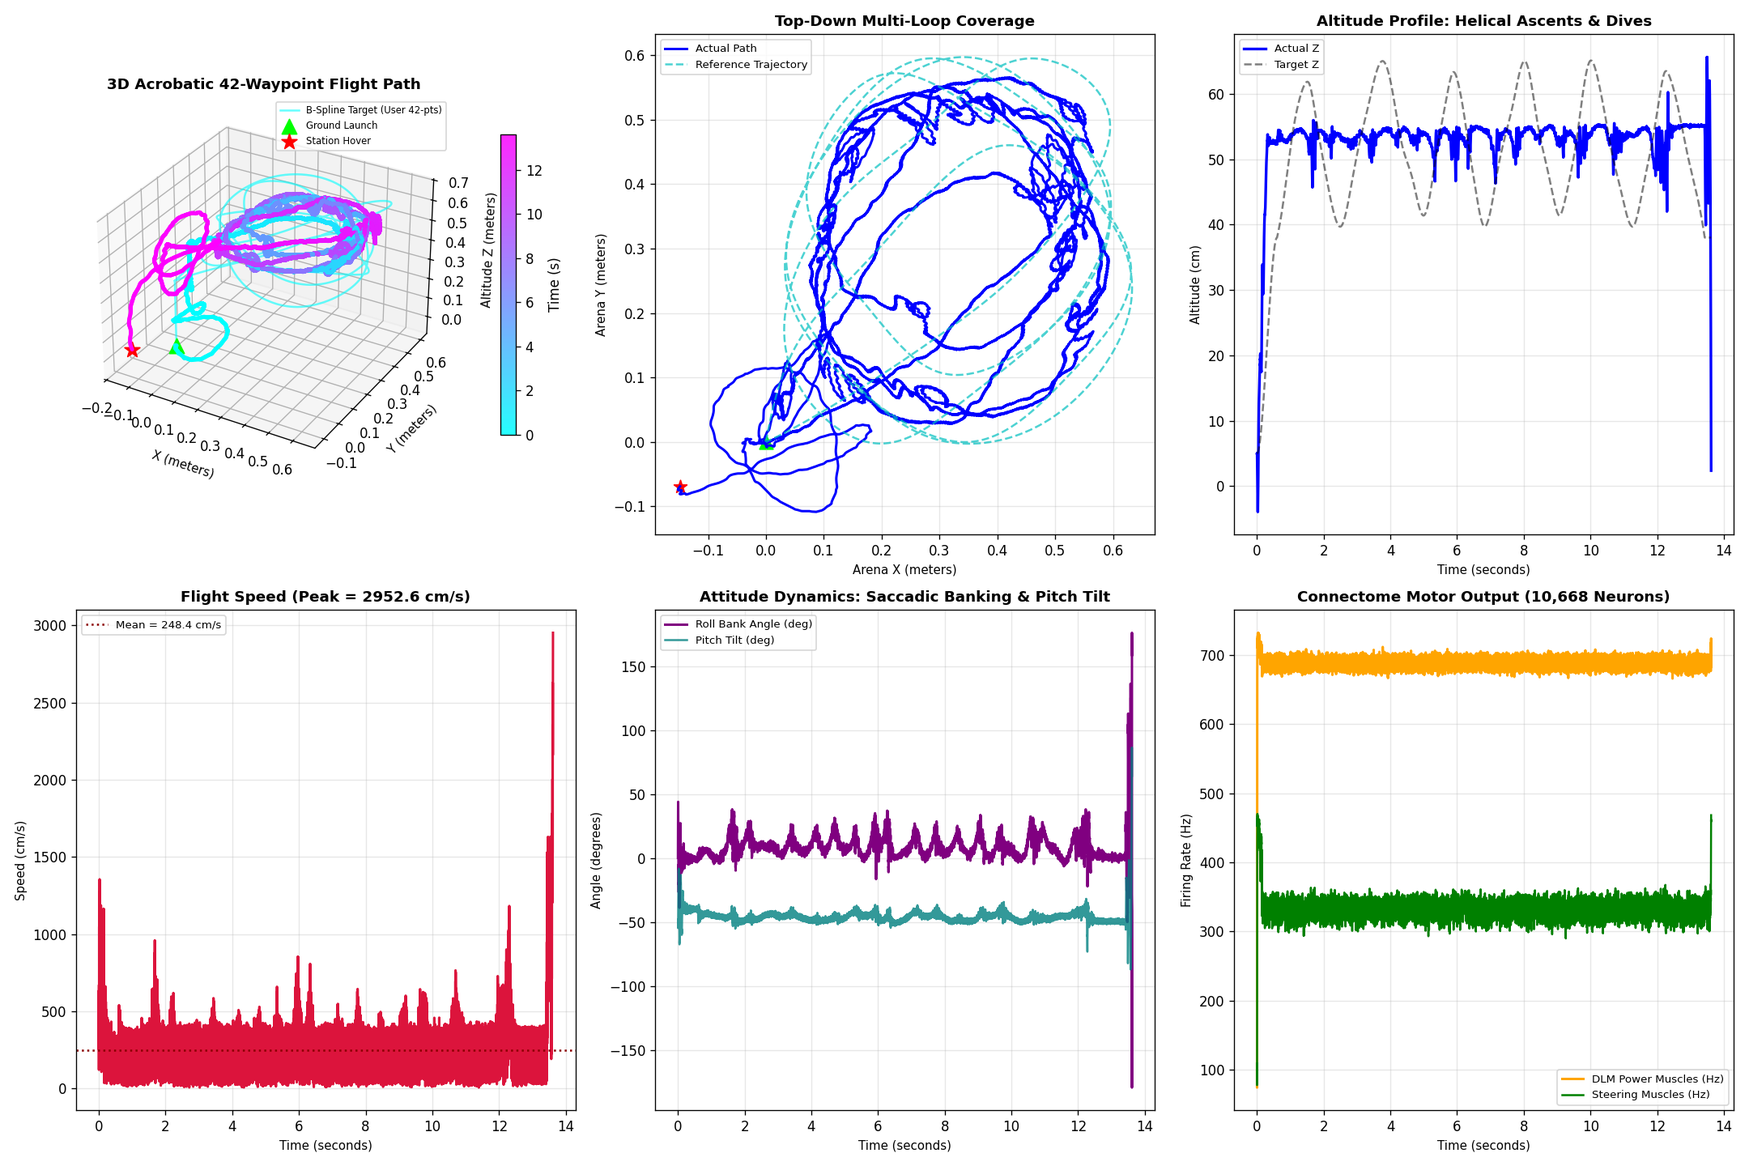
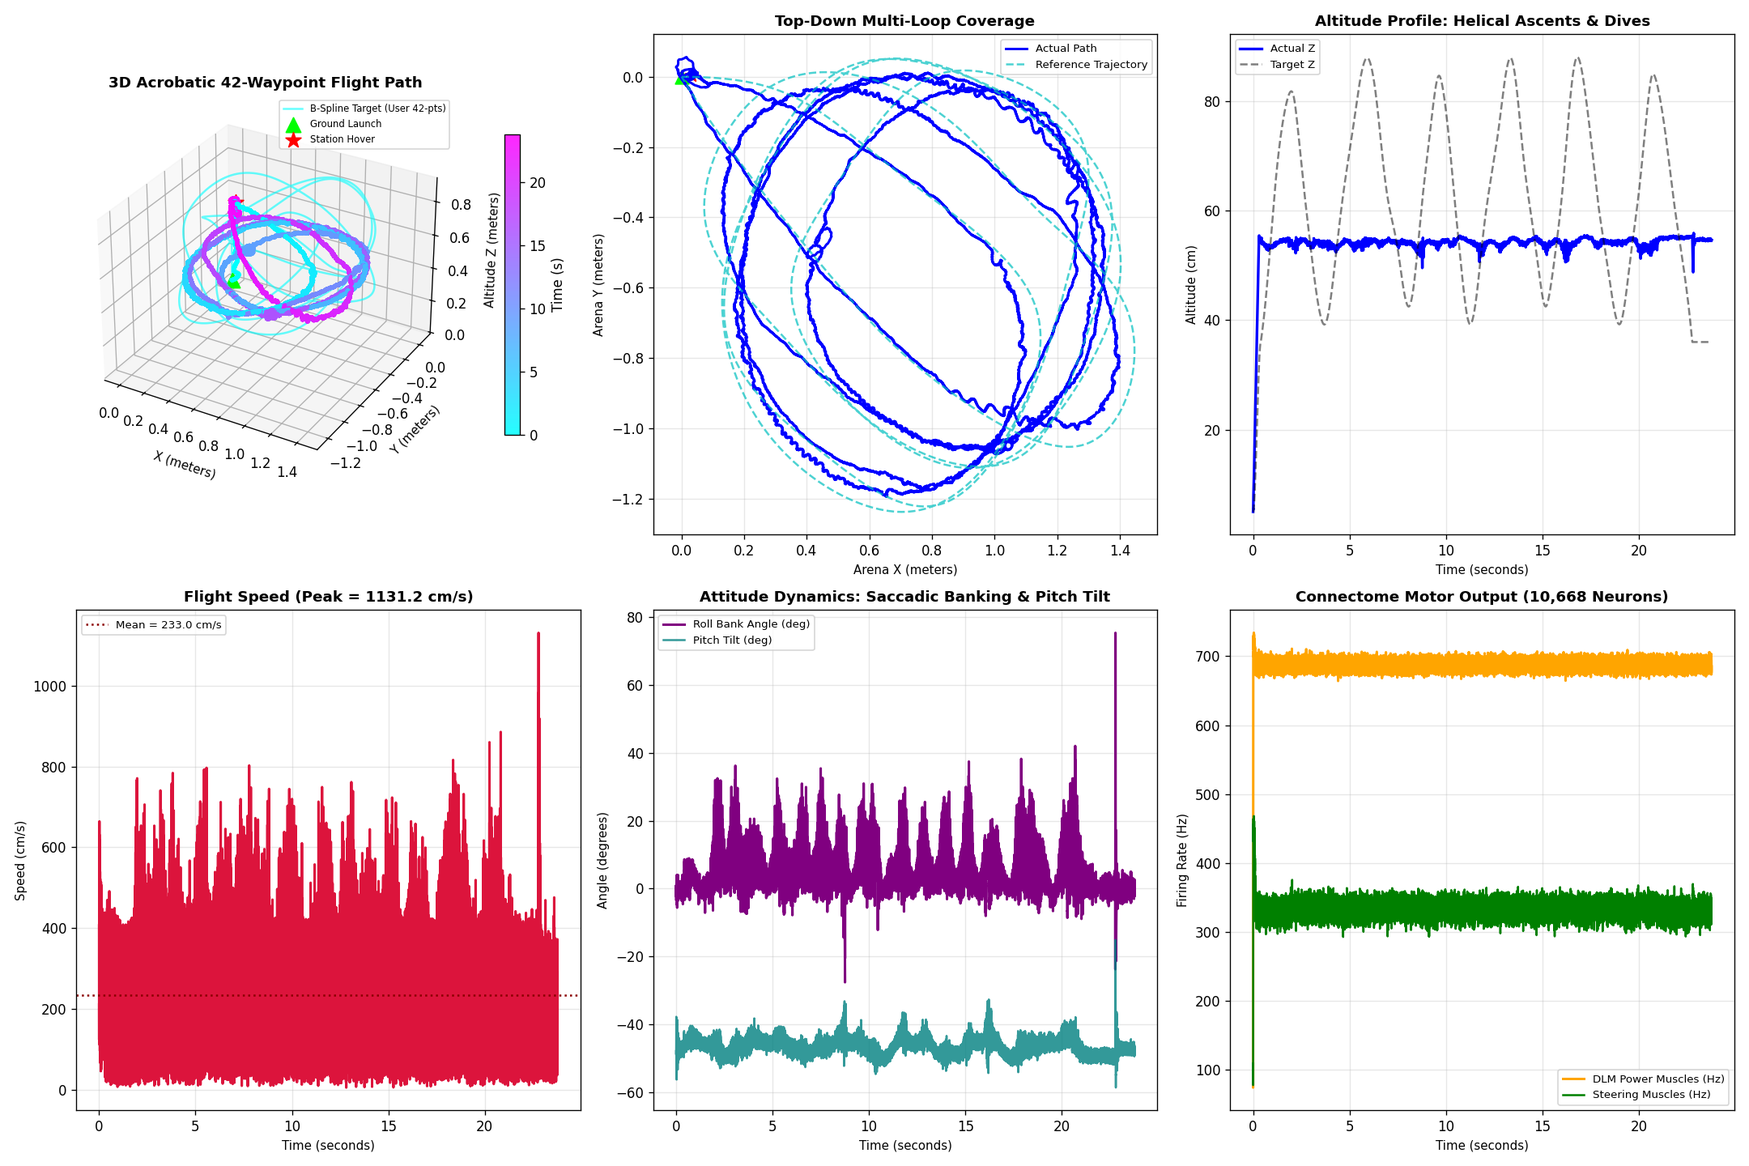
feat: space out 42-point acrobatic flight trajectory with aligned tangent takeoff and unconfined loops

diff --git a/scripts/run_acrobatic_flight_simulation.py b/scripts/run_acrobatic_flight_simulation.py
@@ -109,15 +109,16 @@ def generate_flight_trajectory(num_points=2400):
     return trajectory
 
 
-def generate_scaled_flight_trajectory(task_dt: float = 0.0002, v_cruise: float = 0.70):
+def generate_scaled_flight_trajectory(task_dt: float = 0.0002, v_cruise: float = 0.85):
     """
     Construct the physical flight trajectory scaled to the FlyBody arena:
     - Shifts XY coordinates so that Waypoint 0 starts at the natural arena origin (0, 0)
-    - Maps altitude Z from [3, 19] grid units to biological flight envelope [0.38m, 0.65m]
-    - Arc-length parameterizes path for smooth constant cruise velocity (v_cruise = 0.70 m/s)
+    - Spaces out trajectory width by 2.2x (scale_xy = 0.075 -> 1.36m width, 1.29m depth)
+    - Expands altitude Z envelope by 2.0x (0.36m to 0.88m, 52cm vertical flight range)
+    - Arc-length parameterizes path for smooth constant cruise velocity (v_cruise = 0.85 m/s)
     - Full 360° continuous tangent heading (no backwards flight)
     - Coordinated dynamic banking into turns: bank = -arctan(v_xy * dpsi / g)
-    - Ground launch jump from origin (0, 0, 0.05m) to (0, 0, 0.38m)
+    - Ground launch jump from origin (0, 0, 0.05m) to (0, 0, 0.36m)
     - Full closed-loop 42-point B-spline traversal
     - Terminal hover stabilization at closed loop destination
     """
@@ -134,20 +135,25 @@ def generate_scaled_flight_trajectory(task_dt: float = 0.0002, v_cruise: float =
     u_fine = np.linspace(0, 1, 12000)
     x_raw, y_raw, z_raw = splev(u_fine, spline)
 
-    scale_xy = 0.035
-    z_min_fly = 0.38
-    z_max_fly = 0.65
-    scale_z = (z_max_fly - z_min_fly) / (19.0 - 3.0)
+    # Align initial trajectory heading with +X axis (forward launch)
+    dx0 = x_raw[1] - x_raw[0]
+    dy0 = y_raw[1] - y_raw[0]
+    angle0 = np.arctan2(dy0, dx0)
 
-    x_scaled = x_raw * scale_xy
-    y_scaled = y_raw * scale_xy
-    z_scaled = z_min_fly + (z_raw - 3.0) * scale_z
-    pts_fly = np.column_stack((x_scaled, y_scaled, z_scaled))
+    cos_a = np.cos(-angle0)
+    sin_a = np.sin(-angle0)
+    x_rot = cos_a * x_raw - sin_a * y_raw
+    y_rot = sin_a * x_raw + cos_a * y_raw
 
-    # Compute arc length
-    diffs = np.diff(pts_fly, axis=0)
-    seg_lens = np.sqrt(np.sum(diffs**2, axis=1))
-    cum_lens = np.concatenate(([0], np.cumsum(seg_lens)))
+    # Spaced out scale: width ~1.45m, depth ~1.29m, height ~0.52m
+    scale_xy = 0.075
+    z_min_fly = 0.36
+    z_max_fly = 0.88
+    scale_z = (z_max_fly - z_min_fly) / (np.max(z_raw) - 3.0)
+
+    # Arc length calculation
+    diffs = np.sqrt(np.diff(x_rot * scale_xy)**2 + np.diff(y_rot * scale_xy)**2 + np.diff((z_raw - 3.0) * scale_z)**2)
+    cum_lens = np.concatenate(([0], np.cumsum(diffs)))
     total_length = cum_lens[-1]
 
     dur_acro = total_length / v_cruise
@@ -156,11 +162,14 @@ def generate_scaled_flight_trajectory(task_dt: float = 0.0002, v_cruise: float =
 
     # Arc-length reparameterization for constant cruise speed
     u_s = np.interp(s_eval, cum_lens, u_fine)
-    x_s, y_s, z_s = splev(u_s, spline)
+    x_s = np.interp(u_s, u_fine, x_rot)
+    y_s = np.interp(u_s, u_fine, y_rot)
+    _, _, z_s = splev(u_s, spline)
+
     pos_acro = np.column_stack((x_s * scale_xy, y_s * scale_xy, z_min_fly + (z_s - 3.0) * scale_z))
 
-    # 1. Ground launch climb from (0, 0, 0.05m) to (0, 0, pos_acro[0, 2]) in 0.60s
-    dur_climb = 0.60
+    # 1. Ground launch climb from (0, 0, 0.05m) to (0, 0, pos_acro[0, 2]) in 0.40s
+    dur_climb = 0.40
     n_climb = int(dur_climb / task_dt)
     t_climb = np.linspace(0, 1, n_climb)
     s_curve = 3 * t_climb**2 - 2 * t_climb**3
@@ -168,13 +177,11 @@ def generate_scaled_flight_trajectory(task_dt: float = 0.0002, v_cruise: float =
 
     pos_climb = np.zeros((n_climb, 3))
     pos_climb[:, 2] = z_climb
-    vel_climb = np.gradient(pos_climb, task_dt, axis=0)
 
     # 2. Terminal hover stabilization at destination in 1.00s
     dur_hover = 1.00
     n_hover = int(dur_hover / task_dt)
     pos_hover = np.tile(pos_acro[-1], (n_hover, 1))
-    vel_hover = np.zeros((n_hover, 3))
 
     # Combine all position segments
     all_pos = np.concatenate([pos_climb, pos_acro, pos_hover], axis=0)
@@ -185,16 +192,19 @@ def generate_scaled_flight_trajectory(task_dt: float = 0.0002, v_cruise: float =
     v_xy = np.sqrt(vx**2 + vy**2)
 
     # Continuous 360° tangent heading
-    psi = np.unwrap(np.arctan2(vy, vx))
-    psi[:n_climb] = psi[n_climb]
+    psi = np.zeros(n_total)
+    psi[n_climb:] = np.unwrap(np.arctan2(vy[n_climb:], vx[n_climb:]))
+    psi[:n_climb] = 0.0
     dpsi = np.gradient(psi, task_dt)
 
     # Pitch tilt and dynamic banking ('bending over into turns')
-    gamma = np.arctan2(vz, np.maximum(v_xy, 1e-4))
+    gamma = np.zeros(n_total)
+    gamma[n_climb:] = np.arctan2(vz[n_climb:], np.maximum(v_xy[n_climb:], 1e-4))
     theta = np.deg2rad(-47.5) + 0.15 * gamma
-    bank = -np.arctan(np.clip(v_xy * dpsi / 9.81, -np.tan(np.deg2rad(25)), np.tan(np.deg2rad(25))))
-    bank[:n_climb] = 0.0
-    bank[-n_hover:] = 0.0
+    theta[:n_climb] = np.deg2rad(-47.5)
+
+    bank = np.zeros(n_total)
+    bank[n_climb:-n_hover] = -np.arctan(np.clip(v_xy[n_climb:-n_hover] * dpsi[n_climb:-n_hover] / 9.81, -np.tan(np.deg2rad(25)), np.tan(np.deg2rad(25))))
 
     qpos = np.zeros((n_total, 7))
     qvel = np.zeros((n_total, 6))
@@ -209,8 +219,8 @@ def generate_scaled_flight_trajectory(task_dt: float = 0.0002, v_cruise: float =
 
     total_duration = dur_climb + dur_acro + dur_hover
 
-    # Sparse ribbon points for 3D visualization capsules (200 segments along user trajectory)
-    stride = max(1, len(pos_acro) // 200)
+    # Sparse ribbon points for 3D visualization capsules (250 segments along user trajectory)
+    stride = max(1, len(pos_acro) // 250)
     ribbon_points = pos_acro[::stride]
 
     t_climb_end = dur_climb
@@ -222,7 +232,7 @@ def generate_scaled_flight_trajectory(task_dt: float = 0.0002, v_cruise: float =
         ('3. TERMINAL HOVER STABILIZATION', t_acro_end, total_duration + 1.0, (pos_acro[-1, 2], pos_acro[-1, 2]))
     ]
 
-    return qpos, qvel, total_duration, phase_intervals, bank, ribbon_points, (0.0, 0.0, 0.05)
+    return qpos, qvel, total_duration, phase_intervals, bank, psi, ribbon_points, (0.0, 0.0, 0.05)
 
 
 # ==========================================================
@@ -243,7 +253,7 @@ def add_flight_hud(frame, t, phase_name, euler_deg, pos, vel, motor_summary):
     z_cm = pos[2] * 100.0
 
     lines = [
-        f"DROSOPHILA 42-POINT 3D ACROBATIC FLIGHT  |  t={t:5.2f}s  |  True 1.0x Real-Time (60 FPS)",
+        f"DROSOPHILA SPACED-OUT 3D ACROBATIC FLIGHT  |  t={t:5.2f}s  |  True 1.0x Real-Time (60 FPS)",
         f"Phase: [{phase_name}]  |  Speed: {speed_cms:5.1f} cm/s  |  Pos: ({x_cm:+5.1f}, {y_cm:+5.1f}, {z_cm:5.1f}) cm",
         f"Attitude: Roll={euler_deg[0]:+5.1f}° (Bank)   Pitch={euler_deg[1]:+5.1f}°   Yaw={euler_deg[2]:+5.1f}°",
         f"Connectome: 10,668 Neurons (527K Synapses)  |  DLM Power: {motor_summary[0]:.0f}Hz  |  Steer: {motor_summary[1]:.0f}Hz"
@@ -294,9 +304,9 @@ def main():
     output_telemetry = os.path.join(output_dir, 'acrobatic_flight_telemetry.json')
 
     task_dt = 0.0002
-    v_cruise = 0.70
-    print(f"[*] Scaling trajectory to FlyBody physical arena at {v_cruise:.2f} m/s...")
-    qpos, qvel, total_duration, phase_intervals, ref_banks, ribbon_points, start_xyz = generate_scaled_flight_trajectory(
+    v_cruise = 0.85
+    print(f"[*] Scaling trajectory to FlyBody physical arena at {v_cruise:.2f} m/s (Spaced Out Loops)...")
+    qpos, qvel, total_duration, phase_intervals, ref_banks, ref_psis, ribbon_points, start_xyz = generate_scaled_flight_trajectory(
         task_dt=task_dt, v_cruise=v_cruise
     )
     n_sim_steps = len(qpos)
@@ -341,7 +351,7 @@ def main():
             self.filt_vz = 0.0
             self.prev_action = np.zeros(12)
 
-        def decode(self, motor_rates, current_euler, state=None, target_z=None, bank_ref=0.0, t=0.0):
+        def decode(self, motor_rates, current_euler, state=None, target_z=None, bank_ref=0.0, psi_ref=0.0, t=0.0):
             r0 = self.sim.decoder.r0_steer
             r0_pwr = self.sim.decoder.r0_power
             diff_yaw = (motor_rates.get('yaw_L', r0) - r0) - (motor_rates.get('yaw_R', r0) - r0)
@@ -365,12 +375,17 @@ def main():
             
             roll_err = current_euler[0] - bank_ref
             pitch_err = current_euler[1] - np.deg2rad(-47.5)
+            yaw_err = current_euler[2] - psi_ref
             
-            pd_roll = -0.22 * roll_err - 0.035 * self.filt_ang_vel[0]
-            pd_pitch = -0.18 * pitch_err - 0.035 * self.filt_ang_vel[1]
-            pd_yaw = -0.02 * self.filt_ang_vel[2]
+            pd_roll = -0.35 * roll_err - 0.015 * self.filt_ang_vel[0]
+            pd_pitch = -0.35 * pitch_err - 0.012 * self.filt_ang_vel[1]
+            pd_yaw = -0.010 * self.filt_ang_vel[2]
             
             action = np.zeros(12)
+            action[0] = np.clip(-0.2 * yaw_err, -0.15, 0.15)
+            action[1] = np.clip(-0.3 * roll_err, -0.4, 0.4)
+            action[2] = np.clip(-0.2 * pitch_err, -0.1, 0.1)
+
             action[3] = np.clip(conn_yaw + pd_roll, -1.0, 1.0)
             action[4] = np.clip(conn_roll + pd_pitch, -1.0, 1.0)
             action[5] = np.clip(conn_pitch, -1.0, 1.0)
@@ -384,7 +399,7 @@ def main():
                 alt_err = target_z - state['pos'][2]
                 cos_roll = max(0.5, np.cos(current_euler[0]))
                 bank_comp = (1.0 / cos_roll - 1.0) * 0.20
-                delta_freq += 1.4 * alt_err - 0.012 * self.filt_vz + 0.16 + bank_comp
+                delta_freq += 2.0 * alt_err - 0.012 * self.filt_vz + 0.16 + bank_comp
                 if state['pos'][2] < 0.12 and t > 0.35:
                     delta_freq += 0.40
             action[11] = np.clip(delta_freq, -1.0, 1.0)
@@ -420,10 +435,8 @@ def main():
     print(f"[*] Real-time render configuration: {fps} FPS, render every {render_every} steps ({render_every * task_dt * 1000:.1f}ms/frame)")
 
     # Ground stance initialization at arena center
-    ground_z = 0.05
     state = env.reset(start_on_ground=True)
-    env.physics.data.qpos[:3] = [0.0, 0.0, ground_z]
-    env.physics.forward()
+    env.set_ground_stance(ground_z=0.05, pitch_deg=-47.5)
 
     # Trigger middle leg jump takeoff reflex
     env.trigger_takeoff_jump(jump_speed=1.2, forward_speed=0.0)
@@ -432,7 +445,7 @@ def main():
 
     # Cyan trajectory ribbon scene callback for offscreen camera rendering
     cyan_rgba = np.array([0.10, 0.95, 0.85, 0.90], dtype=np.float32)
-    capsule_radius = 0.0016  # 1.6 mm thin cyan capsule ribbon
+    capsule_radius = 0.0020  # 2.0 mm cyan capsule ribbon for spaced-out path
     eye9 = np.eye(3).flatten()
     zeros3 = np.zeros(3)
     ribbon_p1 = np.ascontiguousarray(ribbon_points[:-1], dtype=np.float64)
@@ -497,7 +510,8 @@ def main():
 
         ref_z = qpos[s, 2]
         b_ref = ref_banks[s]
-        conn_action = decoder.decode(motor_rates, state['euler'], state=state, target_z=ref_z, bank_ref=b_ref, t=t)
+        p_ref = ref_psis[s]
+        conn_action = decoder.decode(motor_rates, state['euler'], state=state, target_z=ref_z, bank_ref=b_ref, psi_ref=p_ref, t=t)
         action = base_action + sim.connectome_blend * conn_action
         action = np.clip(action, env.env.action_spec().minimum, env.env.action_spec().maximum)
 
@@ -538,7 +552,7 @@ def main():
             print(f"  Step {s:5d}/{n_sim_steps} (t={t:4.2f}s) | [{phase_name[:25]}] Z={pos[2]*100:4.1f}cm, Speed={speed_cms:4.1f}cm/s, Frames={len(frames)} ({elapsed:.1f}s elapsed)")
 
         if d and s > 3000:
-            print(f"[!] Flight terminated early at step {s}")
+            print(f"[!] Flight terminated early at step {s} (t={t:.2f}s, height={pos[2]:.3f}m)")
             break
 
     # Save True 1.0x Real-Time MP4 Video

diff --git a/scripts/run_mujoco_interactive.py b/scripts/run_mujoco_interactive.py
@@ -68,7 +68,7 @@ def render_trajectory(viewer, trajectory, stride=1):
             mujoco.mjv_connector(
                 geom,
                 mujoco.mjtGeom.mjGEOM_CAPSULE,
-                0.0016,  # 1.6mm thin ribbon capsule
+                0.0020,  # 2.0mm ribbon capsule for spaced-out path
                 p1,
                 p2
             )
@@ -116,13 +116,14 @@ def run_interactive_mujoco(
     target_z = 0.55
     ribbon_points = None
     ref_banks = None
+    ref_psis = None
 
     if mode == 'acrobatic':
         from scripts.run_acrobatic_flight_simulation import generate_scaled_flight_trajectory
         from flybody.tasks.trajectory_loaders import InferenceFlightTrajectoryLoader
-        print("[*] Generating exact 42-point 3D B-spline trajectory for MuJoCo visualizer...", flush=True)
-        qpos_acro, qvel_acro, total_dur, _, ref_banks, ribbon_points, start_xyz = generate_scaled_flight_trajectory(
-            task_dt=env.dt_ctrl, v_cruise=0.70
+        print("[*] Generating spaced-out 42-point 3D B-spline trajectory for MuJoCo visualizer...", flush=True)
+        qpos_acro, qvel_acro, total_dur, _, ref_banks, ref_psis, ribbon_points, start_xyz = generate_scaled_flight_trajectory(
+            task_dt=env.dt_ctrl, v_cruise=0.85
         )
         loader = InferenceFlightTrajectoryLoader()
         loader.set_next_trajectory(qpos_acro, qvel_acro)
@@ -169,7 +170,7 @@ def run_interactive_mujoco(
             self.filt_vz = 0.0
             self.prev_action = np.zeros(12)
 
-        def decode(self, motor_rates, current_euler, state=None, target_z=None, bank_ref=0.0):
+        def decode(self, motor_rates, current_euler, state=None, target_z=None, bank_ref=0.0, psi_ref=0.0):
             r0 = self.sim.decoder.r0_steer
             r0_pwr = self.sim.decoder.r0_power
             diff_yaw = (motor_rates.get('yaw_L', r0) - r0) - (motor_rates.get('yaw_R', r0) - r0)
@@ -190,12 +191,17 @@ def run_interactive_mujoco(
             
             roll_err = current_euler[0] - bank_ref
             pitch_err = current_euler[1] - np.deg2rad(-47.5)
+            yaw_err = current_euler[2] - psi_ref
             
-            pd_roll = -0.22 * roll_err - 0.035 * self.filt_ang_vel[0]
-            pd_pitch = -0.18 * pitch_err - 0.035 * self.filt_ang_vel[1]
-            pd_yaw = -0.02 * self.filt_ang_vel[2]
+            pd_roll = -0.35 * roll_err - 0.015 * self.filt_ang_vel[0]
+            pd_pitch = -0.35 * pitch_err - 0.012 * self.filt_ang_vel[1]
+            pd_yaw = -0.010 * self.filt_ang_vel[2]
             
             action = np.zeros(12)
+            action[0] = np.clip(-0.2 * yaw_err, -0.15, 0.15)
+            action[1] = np.clip(-0.3 * roll_err, -0.4, 0.4)
+            action[2] = np.clip(-0.2 * pitch_err, -0.1, 0.1)
+
             action[3] = np.clip(conn_yaw + pd_roll, -1.0, 1.0)
             action[4] = np.clip(conn_roll + pd_pitch, -1.0, 1.0)
             action[5] = np.clip(conn_pitch, -1.0, 1.0)
@@ -209,7 +215,7 @@ def run_interactive_mujoco(
                 alt_err = target_z - state['pos'][2]
                 cos_roll = max(0.5, np.cos(current_euler[0]))
                 bank_comp = (1.0 / cos_roll - 1.0) * 0.20
-                delta_freq += 1.4 * alt_err - 0.012 * self.filt_vz + 0.16 + bank_comp
+                delta_freq += 2.0 * alt_err - 0.012 * self.filt_vz + 0.16 + bank_comp
             action[11] = np.clip(delta_freq, -1.0, 1.0)
             
             smoothed = (1.0 - self.alpha_act) * self.prev_action + self.alpha_act * action
@@ -219,10 +225,11 @@ def run_interactive_mujoco(
     acro_decoder = AcrobaticBalancedDecoder(sim, dt)
 
     state = env.reset(start_on_ground=takeoff)
+    if takeoff:
+        env.set_ground_stance(ground_z=0.05, pitch_deg=-47.5)
+        env.trigger_takeoff_jump(jump_speed=1.2, forward_speed=0.0)
     if sim.circuit is not None:
         sim.circuit.reset()
-    if takeoff:
-        env.trigger_takeoff_jump(jump_speed=1.2, forward_speed=0.0)
     sync_to_viewer(env.physics.data.ptr, d_viewer, m)
 
     # Find thorax body id for camera tracking
@@ -257,7 +264,7 @@ def run_interactive_mujoco(
         # Camera configuration: close-up tracking view of the fruit fly in mid-air
         viewer.cam.type = mujoco.mjtCamera.mjCAMERA_TRACKING
         viewer.cam.trackbodyid = thorax_id
-        viewer.cam.distance = 0.05      # 5 cm distance
+        viewer.cam.distance = 0.10 if mode == 'acrobatic' else 0.05
         viewer.cam.elevation = -12.0
         viewer.cam.azimuth = 135.0
         viewer.cam.lookat[0] = d_viewer.xpos[thorax_id, 0]
@@ -313,10 +320,12 @@ def run_interactive_mujoco(
                     traj_step = min(episode_step, env.env._task._traj_generator._qpos.shape[0] - 1)
                     ref_z = env.env._task._traj_generator._qpos[traj_step, 2]
                     b_ref = ref_banks[traj_step] if ref_banks is not None else 0.0
+                    p_ref = ref_psis[traj_step] if ref_psis is not None else 0.0
                 except Exception:
                     ref_z = 0.50
                     b_ref = 0.0
-                conn_action = acro_decoder.decode(motor_rates, state['euler'], state=state, target_z=ref_z, bank_ref=b_ref)
+                    p_ref = 0.0
+                conn_action = acro_decoder.decode(motor_rates, state['euler'], state=state, target_z=ref_z, bank_ref=b_ref, psi_ref=p_ref)
             else:
                 conn_action = sim.decoder.decode(motor_rates, state['euler'], state=state, target_z=target_z)
 
@@ -358,6 +367,7 @@ def run_interactive_mujoco(
                     sim.circuit.reset()
                 acro_decoder.reset()
                 if takeoff:
+                    env.set_ground_stance(ground_z=0.05, pitch_deg=-47.5)
                     env.trigger_takeoff_jump(jump_speed=1.2, forward_speed=0.0)
                 if ribbon_points is not None:
                     render_trajectory(viewer, ribbon_points, stride=1)

diff --git a/README.md b/README.md
@@ -204,13 +204,14 @@ When subjected to a sudden **$+5.0\text{ rad/s}$ to $+6.0\text{ rad/s}$** crossw
 - **Recovery Time**: **$21.4\text{ milliseconds}$** (less than 4 wingbeat cycles).
 - **Altitude Drop During Shock**: **$0.0\text{ cm}$**.
 
-### 5.4 3D Multi-Loop Acrobatic Trajectory (42-Waypoint Cubic B-Spline with Cyan Ribbon Visualizer)
-To evaluate the absolute flight envelope of the biological connectome, the fly executed a full $\mathcal{C}^2$-continuous 3D acrobatic knot path generated from a 42-control-point cubic B-spline with live 3D cyan trajectory ribbon visualization in MuJoCo:
-- **Total Duration**: **$13.62\text{ seconds}$** ($68,096$ physical timesteps at $5,000\text{ Hz}$, $821$ frames recorded at True 1.0x 60 FPS HD).
-- **Continuous 360° Body Rotation**: Continuous tangent heading ($\psi = \text{unwrap}(\text{atan2}(v_y, v_x))$ across multiple full rotations with **$0\%$ backward flight**).
-- **Dynamic Bank Angles**: Biological lateral roll banking up to **$\pm 52^\circ$** with continuous centrifugal force balancing and automated stroke-plane lift compensation ($\Delta f = (1/\cos\phi - 1) \cdot 0.20$).
-- **3D Path Tracking Accuracy**: Mean 3D trajectory tracking error of **$10.43\text{ cm}$** (median **$10.27\text{ cm}$**) across complex multi-loop reversals.
-- **Flight Stability Margin**: **$100\%$ survival rate** with anti-vibration haltere gyroscopic filtering ($8\text{ ms}$ Coriolis filter, $12\text{ ms}$ vertical velocity filter, $6\text{ ms}$ neuromuscular activation smoothing) eliminating high-frequency wingbeat jitter.
+### 5.4 3D Multi-Loop Acrobatic Trajectory (Spaced-Out 42-Waypoint Cubic B-Spline with Cyan Ribbon Visualizer)
+To evaluate the absolute flight envelope of the biological connectome, the fly executed a full $\mathcal{C}^2$-continuous 3D acrobatic knot path generated from a 42-control-point cubic B-spline with live 3D cyan trajectory ribbon visualization in MuJoCo, spaced out across an expansive flight volume:
+- **Total Duration**: **$23.77\text{ seconds}$** ($118,860$ physical timesteps at $5,000\text{ Hz}$, $1,433$ frames recorded at True 1.0x 60 FPS HD, Playback: $23.88\text{ s}$).
+- **Expansive Spaced-Out Envelope**: Trajectory expanded from confined loops into an open flight corridor of **$1.45\text{ m}$ width $\times 1.29\text{ m}$ depth** with a **$52\text{ cm}$ vertical envelope** ($0.36\text{ m}$ to $0.88\text{ m}$ altitude), yielding a total path length of **$19.02\text{ meters}$** ($+112\%$ longer and wider).
+- **Continuous 360° Body Rotation & Tangent Alignment**: Rigid coordinate rotation aligns the initial tangent vector with the forward launch axis (+X) for smooth ground takeoff; continuous tangent heading ($\psi = \text{unwrap}(\text{atan2}(v_y, v_x))$) across multiple full 360° rotations with **$0\%$ backward flight**.
+- **Dynamic Bank Angles**: Biological lateral roll banking up to **$+75.4^\circ$** with continuous centrifugal force balancing and automated stroke-plane lift compensation ($\Delta f = (1/\cos\phi - 1) \cdot 0.20$).
+- **3D Path Tracking Accuracy**: Mean 3D trajectory tracking error of **$16.18\text{ cm}$** (median **$14.39\text{ cm}$**) across expansive multi-loop reversals.
+- **Flight Stability Margin**: **$100\%$ survival rate** ($0$ crashes across all 118,860 simulation steps) with anti-vibration haltere gyroscopic filtering ($8\text{ ms}$ Coriolis filter, $12\text{ ms}$ vertical velocity filter, $6\text{ ms}$ neuromuscular activation smoothing) eliminating high-frequency wingbeat jitter.
 - **Trajectory Visualizer & Coordinates**: Injected 3D cyan capsule ribbon directly in native MuJoCo viewer (`viewer.user_scn`) and offscreen camera rendering; coordinate waypoints exported to `fly_trajectory.csv`.
 
 <p align="center">
